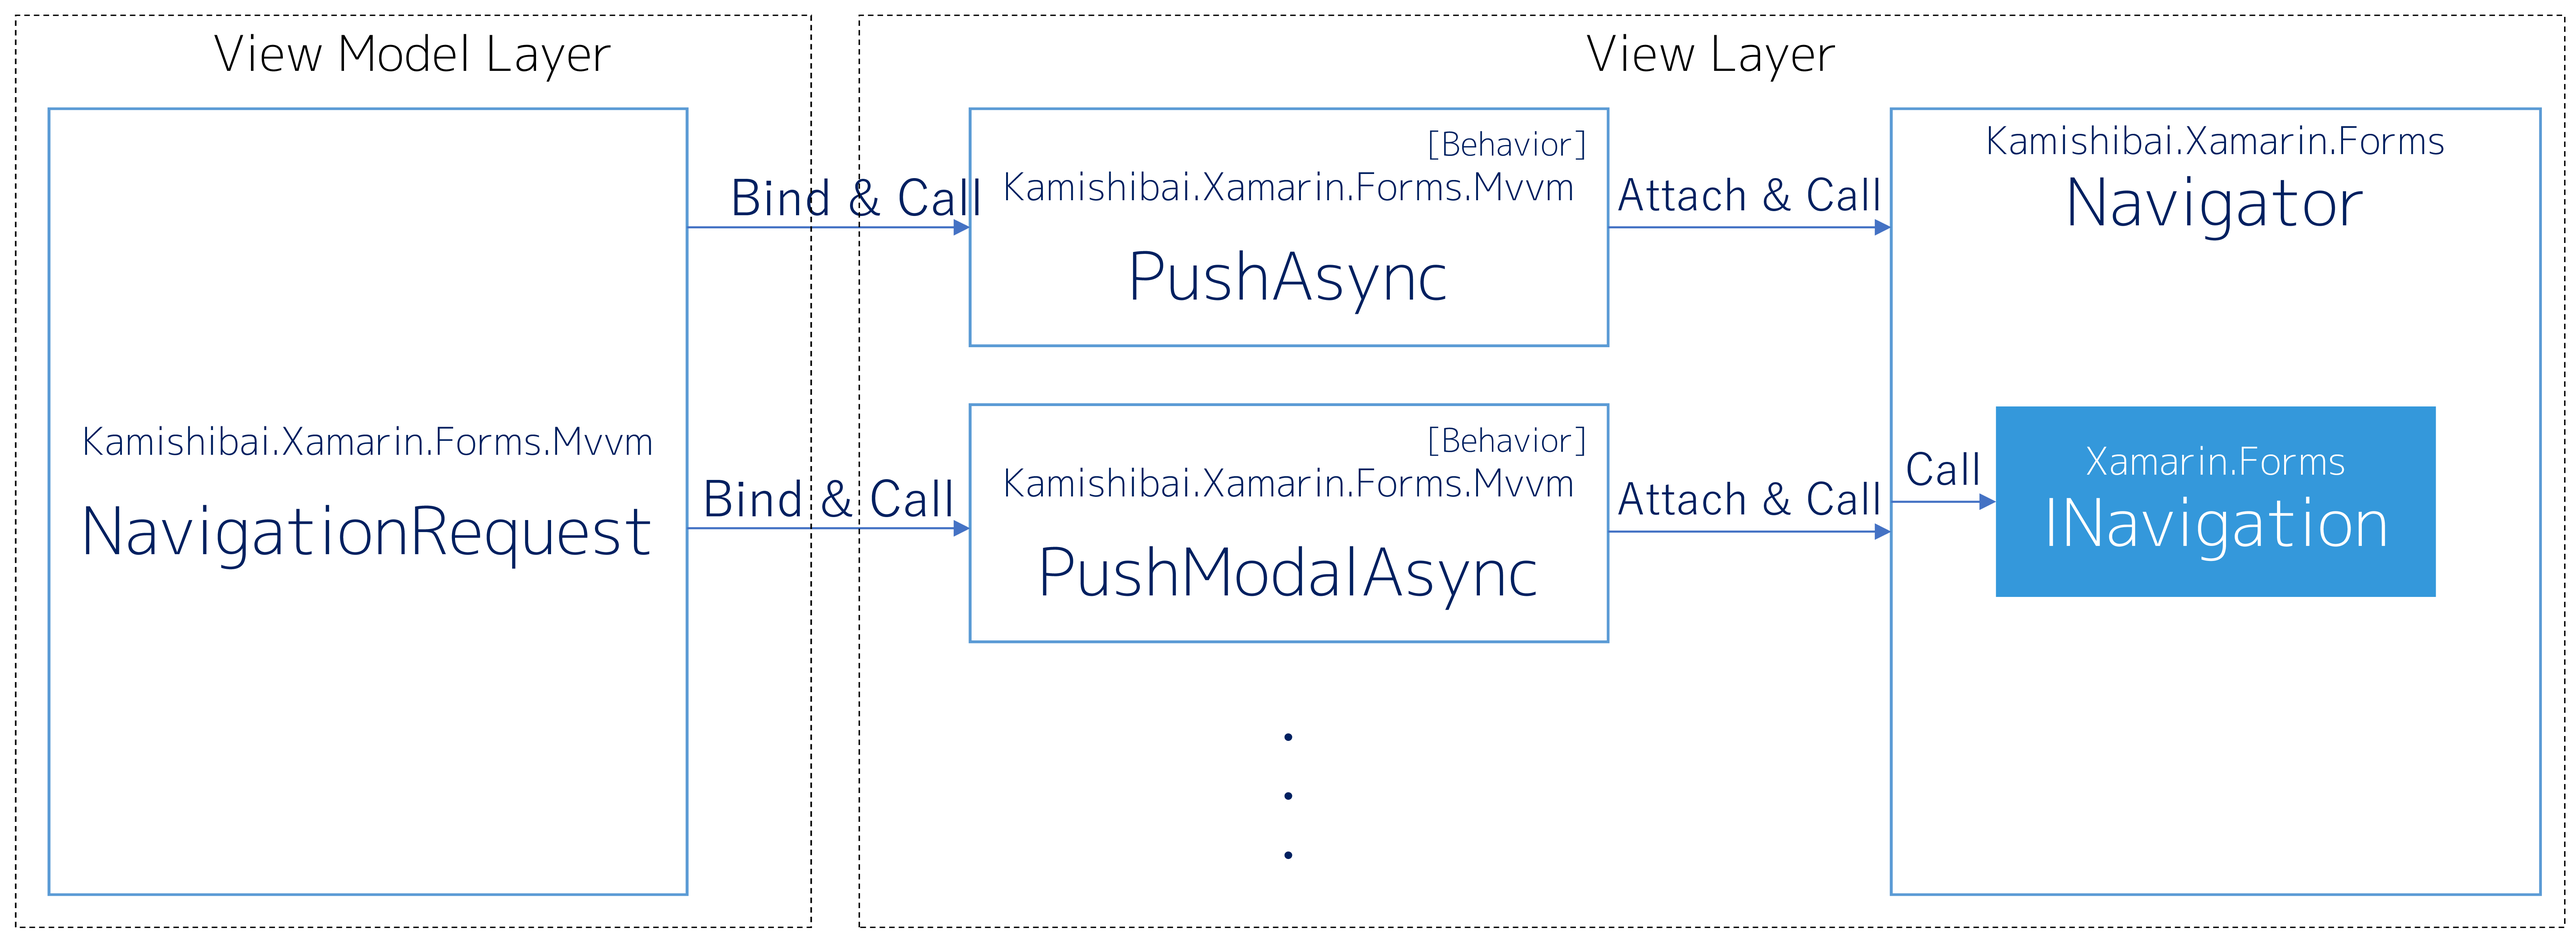
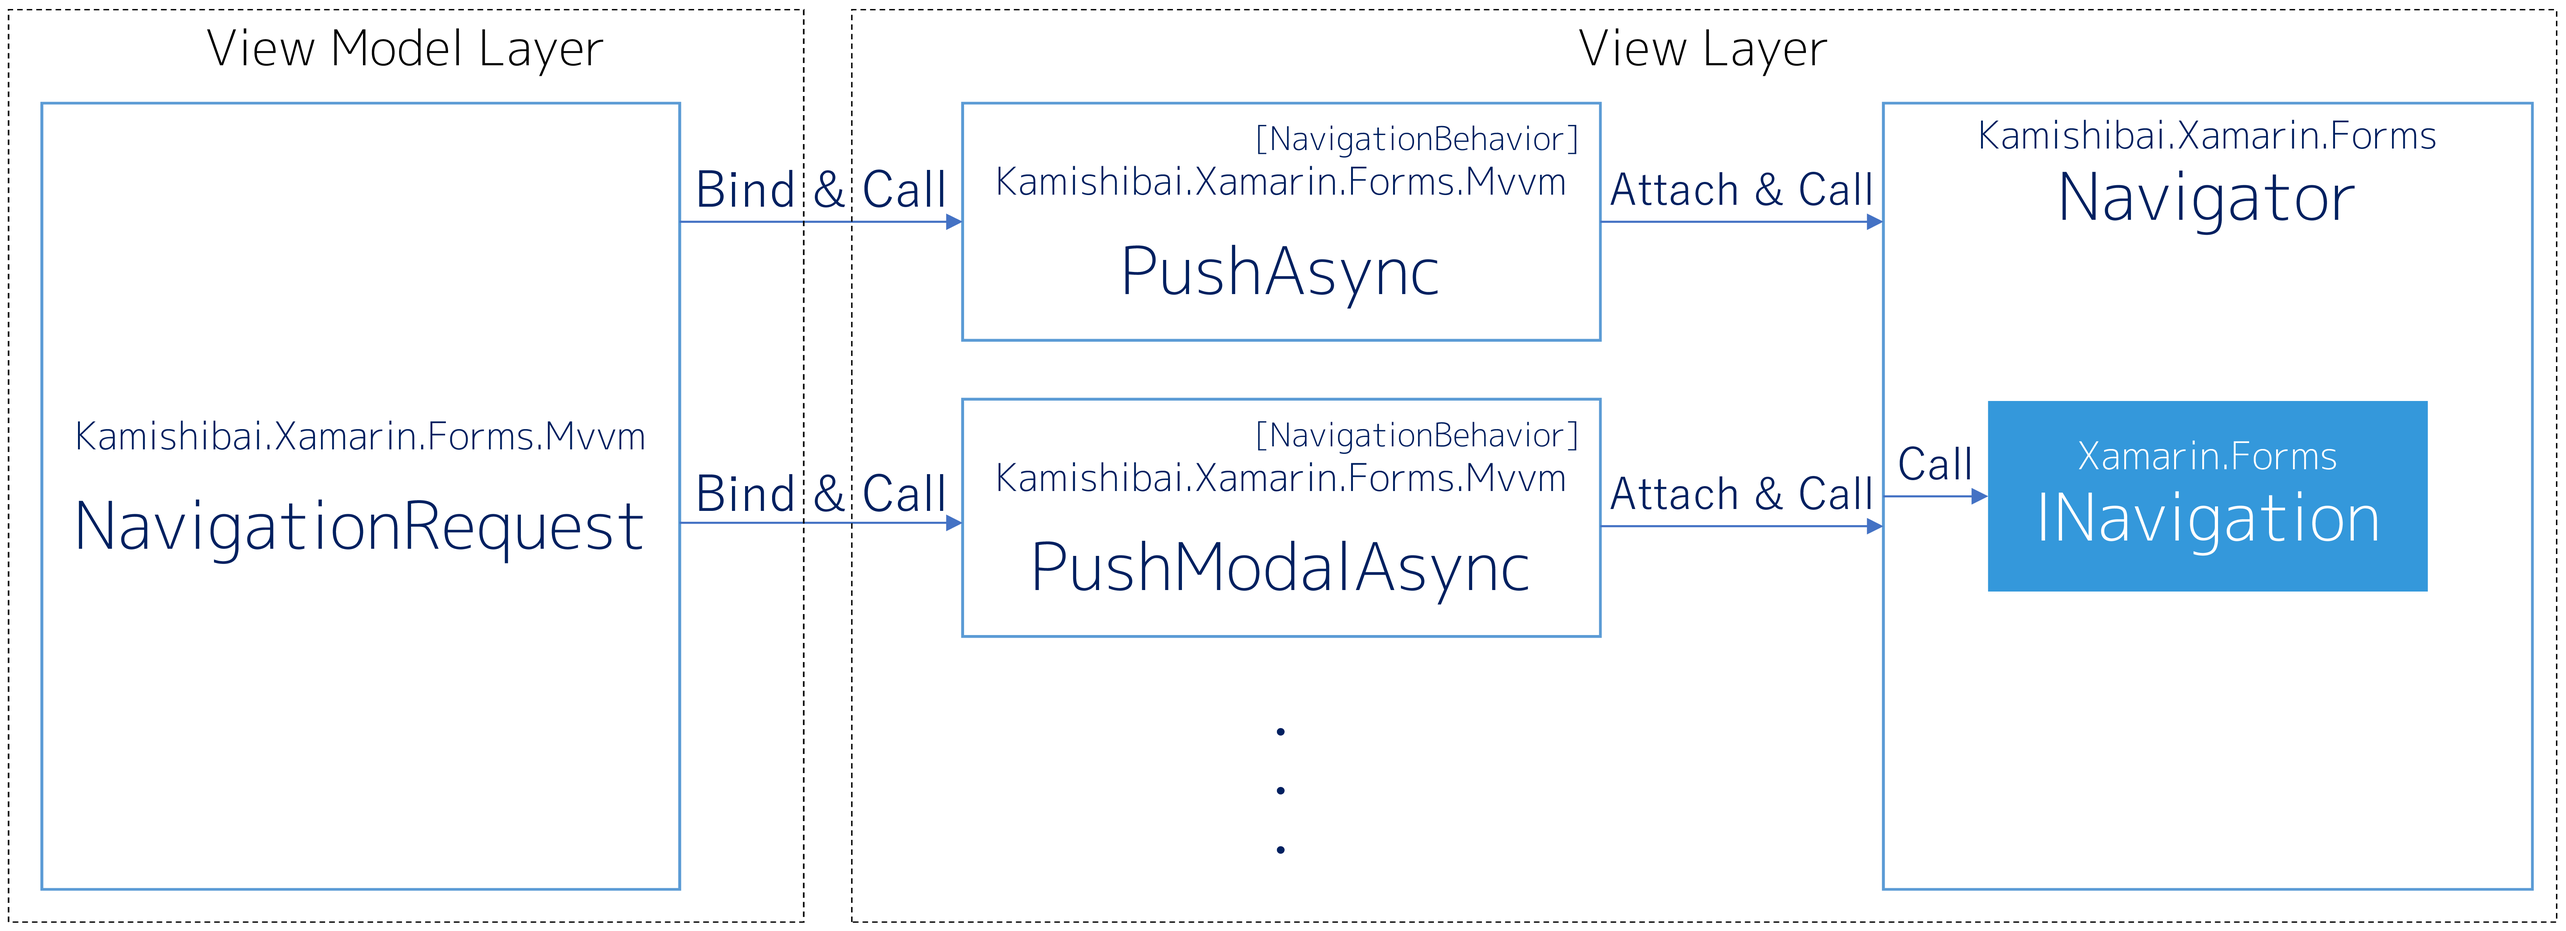
Update documents.

diff --git a/Document/3-Architecture-Overview-ja.md b/Document/3-Architecture-Overview-ja.md
@@ -1,2 +1,10 @@
+[[Home]](../README-ja.md) > アーキテクチャ概要
+
+# アーキテクチャ概要  
+KAMISHIBAIの特に重要な要素に、つぎの三つがあります。  
+
+* NavigationRequest  
+* NavigationBehavior（PushAsyncやPushModalAsyncの親クラス）
+* Navigator
 
 ![](3-Architecture-Overview/KAMISHIBAI.png)
